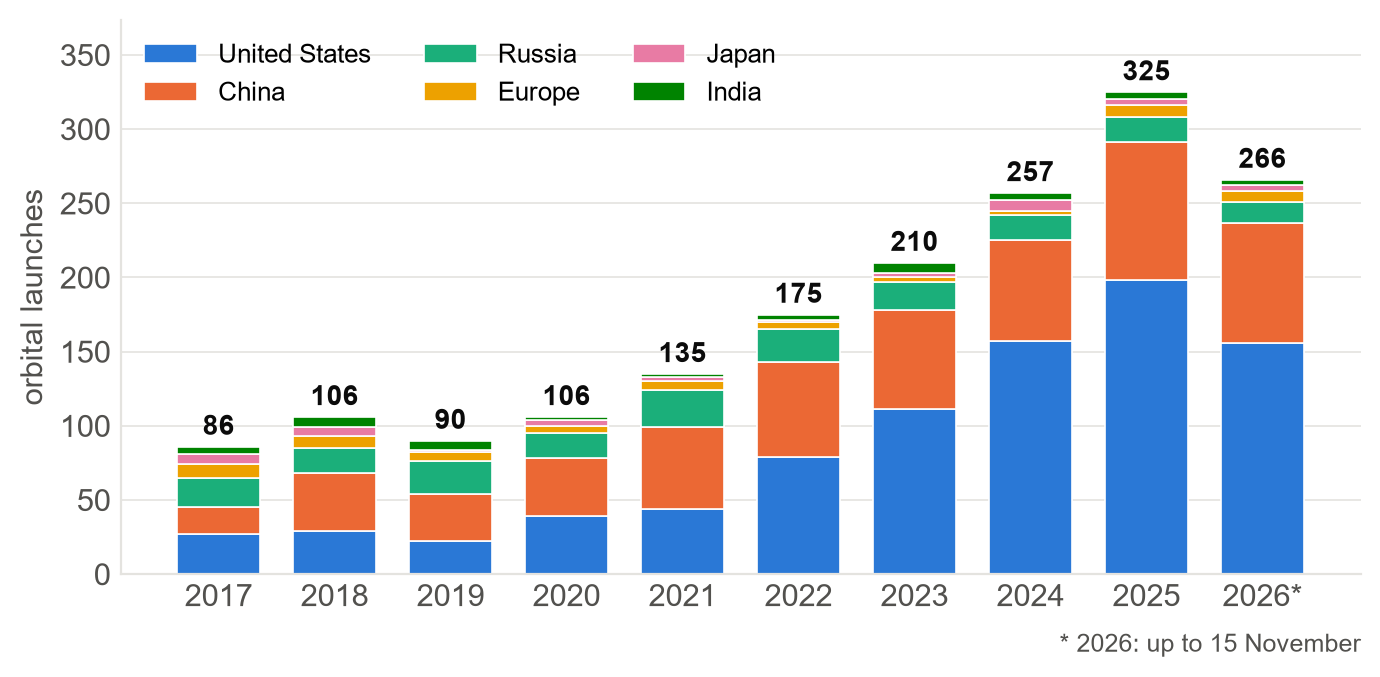
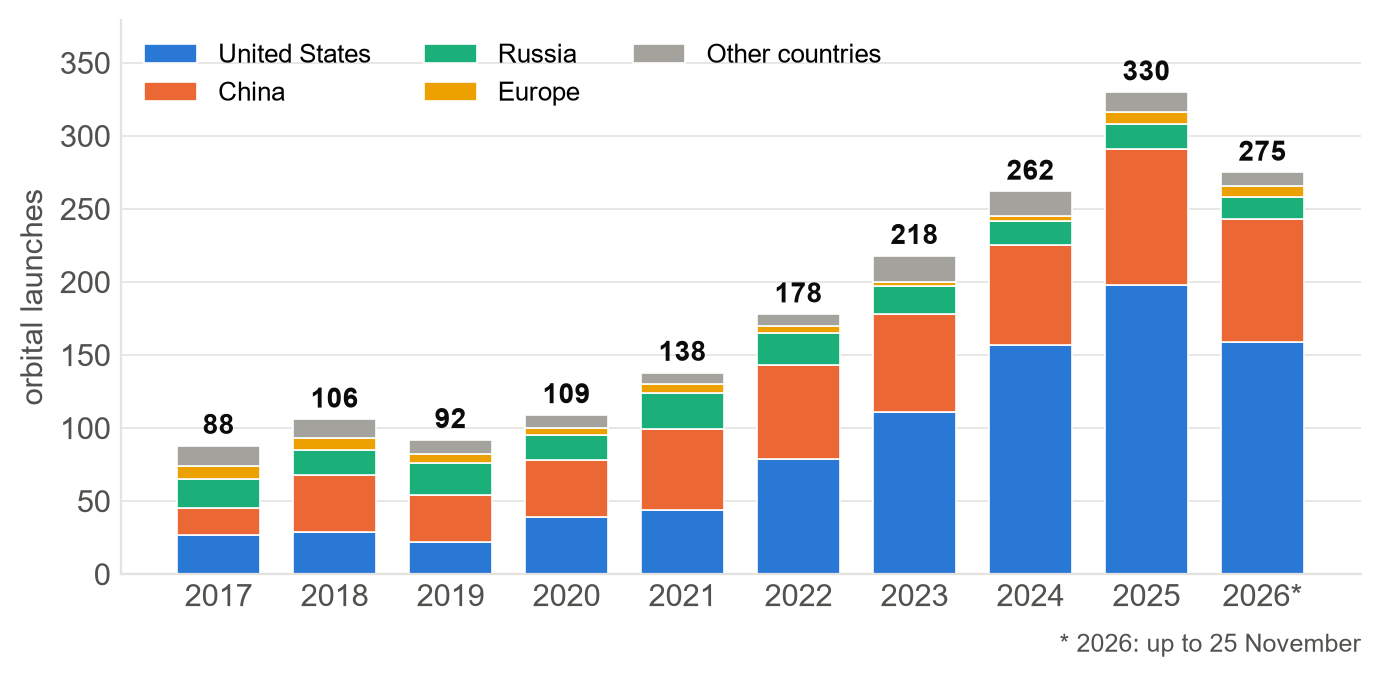
Spazio: dati dei lanci al 25/11/2026, grafico per paese con la voce Altri paesi (IT/EN)

diff --git a/progetti/Spazio/index.html b/progetti/Spazio/index.html
@@ -64,7 +64,7 @@
 					<li><b>Data center</b>: <i>ha senso portare il calcolo per l'intelligenza artificiale in orbita?</i></li>
 					<li><b>Missioni</b>: <i>a che punto è l'esplorazione della Luna e del Sistema Solare?</i></li>
 				</ul>
-				<p>I dati sui lanci sono aggiornati al 15 novembre 2026.</p>
+				<p>I dati sui lanci sono aggiornati al 25 novembre 2026.</p>
 				<nav class="toc" aria-label="Indice">
 					<h4>Indice</h4>
 					<ol>
@@ -108,21 +108,21 @@
 				<h3>Lanci per paese</h3>
 				<p>La crescita è trainata dagli <b>Stati Uniti</b>, cioè da SpaceX, e dalla <b>Cina</b>, che insieme fanno quasi il 90% dei lanci. La Russia è in calo, Europa, Giappone e India restano sotto i dieci lanci l'anno ciascuno.</p>
 				<figure>
-					<img src="img/lanci-paese.png" alt="Lanci orbitali per paese dal 2017 al 2026: Stati Uniti, Cina, Russia, Europa, Giappone, India" loading="lazy" />
-					<figcaption>Lanci orbitali dei sei principali attori, riusciti e non. Elaborazione su dati Wikipedia (liste dei lanci per vettore e per anno), 15/11/2026.</figcaption>
+					<img src="img/lanci-paese.png" alt="Lanci orbitali per paese dal 2017 al 2026: Stati Uniti, Cina, Russia, Europa e altri paesi" loading="lazy" />
+					<figcaption>Lanci orbitali nel mondo, riusciti e non. Stati Uniti, Cina, Russia ed Europa: elaborazione su dati Wikipedia (liste dei lanci per vettore e per anno); altri paesi (Giappone, India, Iran, Corea del Sud e altri): tabelle per paese delle pagine Wikipedia «Spaceflight» di ogni anno. Dati al 25/11/2026.</figcaption>
 				</figure>
 				<h3>I lanciatori che contano</h3>
 				<div class="table-wrap"><table class="data">
 					<tr><th>Lanciatore</th><th>Paese</th><th>Lanci 2025</th><th>Lanci 2026*</th><th>Note</th></tr>
-					<tr><td>Falcon 9</td><td>Stati Uniti</td><td class="num">165</td><td class="num">120</td><td>Primo stadio riutilizzabile, recuperato in quasi ogni volo: il cavallo da tiro dell'orbita</td></tr>
+					<tr><td>Falcon 9</td><td>Stati Uniti</td><td class="num">165</td><td class="num">123</td><td>Primo stadio riutilizzabile, recuperato in quasi ogni volo: il cavallo da tiro dell'orbita</td></tr>
 					<tr><td>Starship</td><td>Stati Uniti</td><td class="num">5</td><td class="num">4</td><td>Il razzo più grande mai costruito: prima orbita il 28/9/2026, prima cattura dello stadio superiore il 13/11/2026</td></tr>
 					<tr><td>Electron</td><td>Nuova Zelanda / Stati Uniti</td><td class="num">18</td><td class="num">18</td><td>Il piccolo lanciatore di Rocket Lab; il più grande Neutron è atteso nel 2027</td></tr>
-					<tr><td>Famiglia Lunga Marcia</td><td>Cina</td><td class="num">≈70</td><td class="num">≈55</td><td>Oltre venti varianti; accanto crescono i vettori commerciali (Zhuque, Kinetica, Jielong)</td></tr>
-					<tr><td>Soyuz-2</td><td>Russia</td><td class="num">13</td><td class="num">12</td><td>Ancora l'unico accesso russo con equipaggio alla Stazione Spaziale</td></tr>
+					<tr><td>Famiglia Lunga Marcia</td><td>Cina</td><td class="num">≈70</td><td class="num">≈57</td><td>Oltre venti varianti; accanto crescono i vettori commerciali (Zhuque, Kinetica, Jielong)</td></tr>
+					<tr><td>Soyuz-2</td><td>Russia</td><td class="num">13</td><td class="num">13</td><td>Ancora l'unico accesso russo con equipaggio alla Stazione Spaziale</td></tr>
 					<tr><td>New Glenn</td><td>Stati Uniti</td><td class="num">2</td><td class="num">1</td><td>Blue Origin: primo stadio recuperato nel novembre 2025, ma un fallimento ad aprile 2026</td></tr>
-					<tr><td>Ariane 6 e Vega-C</td><td>Europa</td><td class="num">7</td><td class="num">6</td><td>Accesso autonomo europeo all'orbita, senza riutilizzo</td></tr>
+					<tr><td>Ariane 6 e Vega-C</td><td>Europa</td><td class="num">7</td><td class="num">7</td><td>Accesso autonomo europeo all'orbita, senza riutilizzo</td></tr>
 				</table></div>
-				<p><small>* 2026 fino al 15 novembre.</small></p>
+				<p><small>* 2026 fino al 25 novembre.</small></p>
 				<h3>Il nodo europeo</h3>
 				<p>L'Europa ha riconquistato l'accesso autonomo all'orbita dopo la crisi del 2023-2024, ma lancia un decimo della Cina e circa un ventesimo di SpaceX, e non ha ancora un lanciatore riutilizzabile in servizio. Senza cadenza e riutilizzo, costellazioni e missioni europee continuano in parte a dipendere da razzi altrui.</p>
 				<a href="#top" title="torna su">Torna su</a>
@@ -148,7 +148,7 @@
 				<p>La corsa si legge anche nei lanci: quasi metà dei lanci mondiali serve oggi a costruire costellazioni. Nel 2026 crescono soprattutto le costellazioni cinesi e Amazon Leo.</p>
 				<figure>
 					<img src="img/lanci-costellazioni.png" alt="Lanci dedicati alle costellazioni per anno dal 2019 al 2026" loading="lazy" />
-					<figcaption>Lanci il cui carico principale appartiene alla costellazione. Elaborazione su dati Wikipedia, 15/11/2026.</figcaption>
+					<figcaption>Lanci il cui carico principale appartiene alla costellazione. Elaborazione su dati Wikipedia, 25/11/2026.</figcaption>
 				</figure>
 				<h3>Il caso Starlink</h3>
 				<p>Starlink è il riferimento perché unisce scala, controllo della filiera ed evoluzione continua: in sette anni SpaceX ha messo in orbita cinque generazioni di satelliti, ciascuna più grande e capace della precedente, che restano in servizio circa cinque anni e poi rientrano bruciando in atmosfera.</p>

diff --git a/progetti/Spazio/index-en.html b/progetti/Spazio/index-en.html
@@ -64,7 +64,7 @@
 					<li><b>Data centres</b>: <i>does it make sense to move computing for artificial intelligence into orbit?</i></li>
 					<li><b>Missions</b>: <i>where does the exploration of the Moon and the Solar System stand?</i></li>
 				</ul>
-				<p>Launch data are updated to 15 November 2026.</p>
+				<p>Launch data are updated to 25 November 2026.</p>
 				<nav class="toc" aria-label="Contents">
 					<h4>Contents</h4>
 					<ol>
@@ -108,21 +108,21 @@
 				<h3>Launches by country</h3>
 				<p>Growth is driven by the <b>United States</b>, that is by SpaceX, and by <b>China</b>, which together account for almost 90% of launches. Russia is declining; Europe, Japan and India each remain below ten launches a year.</p>
 				<figure>
-					<img src="img/lanci-paese-en.png" alt="Orbital launches by country from 2017 to 2026: United States, China, Russia, Europe, Japan, India" loading="lazy" />
-					<figcaption>Orbital launches by the six main players, successful or not. Based on Wikipedia data (launch lists by rocket and by year), 15/11/2026.</figcaption>
+					<img src="img/lanci-paese-en.png" alt="Orbital launches by country from 2017 to 2026: United States, China, Russia, Europe and other countries" loading="lazy" />
+					<figcaption>Orbital launches worldwide, successful or not. United States, China, Russia and Europe: based on Wikipedia data (launch lists by rocket and by year); other countries (Japan, India, Iran, South Korea and others): country tables of the yearly Wikipedia “Spaceflight” pages. Data as of 25/11/2026.</figcaption>
 				</figure>
 				<h3>The launchers that matter</h3>
 				<div class="table-wrap"><table class="data">
 					<tr><th>Launcher</th><th>Country</th><th>Launches 2025</th><th>Launches 2026*</th><th>Notes</th></tr>
-					<tr><td>Falcon 9</td><td>United States</td><td class="num">165</td><td class="num">120</td><td>Reusable first stage, recovered on almost every flight: the workhorse of orbit</td></tr>
+					<tr><td>Falcon 9</td><td>United States</td><td class="num">165</td><td class="num">123</td><td>Reusable first stage, recovered on almost every flight: the workhorse of orbit</td></tr>
 					<tr><td>Starship</td><td>United States</td><td class="num">5</td><td class="num">4</td><td>The largest rocket ever built: first orbit on 28/9/2026, first catch of the upper stage on 13/11/2026</td></tr>
 					<tr><td>Electron</td><td>New Zealand / United States</td><td class="num">18</td><td class="num">18</td><td>Rocket Lab's small launcher; the larger Neutron is expected in 2027</td></tr>
-					<tr><td>Long March family</td><td>China</td><td class="num">≈70</td><td class="num">≈55</td><td>More than twenty variants; commercial rockets are growing alongside (Zhuque, Kinetica, Jielong)</td></tr>
-					<tr><td>Soyuz-2</td><td>Russia</td><td class="num">13</td><td class="num">12</td><td>Still Russia's only crewed access to the Space Station</td></tr>
+					<tr><td>Long March family</td><td>China</td><td class="num">≈70</td><td class="num">≈57</td><td>More than twenty variants; commercial rockets are growing alongside (Zhuque, Kinetica, Jielong)</td></tr>
+					<tr><td>Soyuz-2</td><td>Russia</td><td class="num">13</td><td class="num">13</td><td>Still Russia's only crewed access to the Space Station</td></tr>
 					<tr><td>New Glenn</td><td>United States</td><td class="num">2</td><td class="num">1</td><td>Blue Origin: first stage recovered in November 2025, but a failure in April 2026</td></tr>
-					<tr><td>Ariane 6 and Vega-C</td><td>Europe</td><td class="num">7</td><td class="num">6</td><td>Europe's autonomous access to orbit, without reuse</td></tr>
+					<tr><td>Ariane 6 and Vega-C</td><td>Europe</td><td class="num">7</td><td class="num">7</td><td>Europe's autonomous access to orbit, without reuse</td></tr>
 				</table></div>
-				<p><small>* 2026 up to 15 November.</small></p>
+				<p><small>* 2026 up to 25 November.</small></p>
 				<h3>Europe's problem</h3>
 				<p>Europe regained autonomous access to orbit after the 2023–2024 crisis, but it launches a tenth as often as China and about a twentieth as often as SpaceX, and it still has no reusable launcher in service. Without cadence and reuse, European constellations and missions still partly depend on other countries' rockets.</p>
 				<a href="#top" title="back to top">Back to top</a>
@@ -148,7 +148,7 @@
 				<p>The race also shows in launches: almost half of all launches worldwide now serve to build constellations. In 2026 the Chinese constellations and Amazon Leo are growing fastest.</p>
 				<figure>
 					<img src="img/lanci-costellazioni-en.png" alt="Launches dedicated to constellations per year from 2019 to 2026" loading="lazy" />
-					<figcaption>Launches whose main payload belongs to the constellation. Based on Wikipedia data, 15/11/2026.</figcaption>
+					<figcaption>Launches whose main payload belongs to the constellation. Based on Wikipedia data, 25/11/2026.</figcaption>
 				</figure>
 				<h3>The Starlink case</h3>
 				<p>Starlink is the benchmark because it combines scale, control of the supply chain and continuous evolution: in seven years SpaceX has put five generations of satellites into orbit, each larger and more capable than the previous one, which stay in service for about five years and then re-enter and burn up in the atmosphere.</p>
